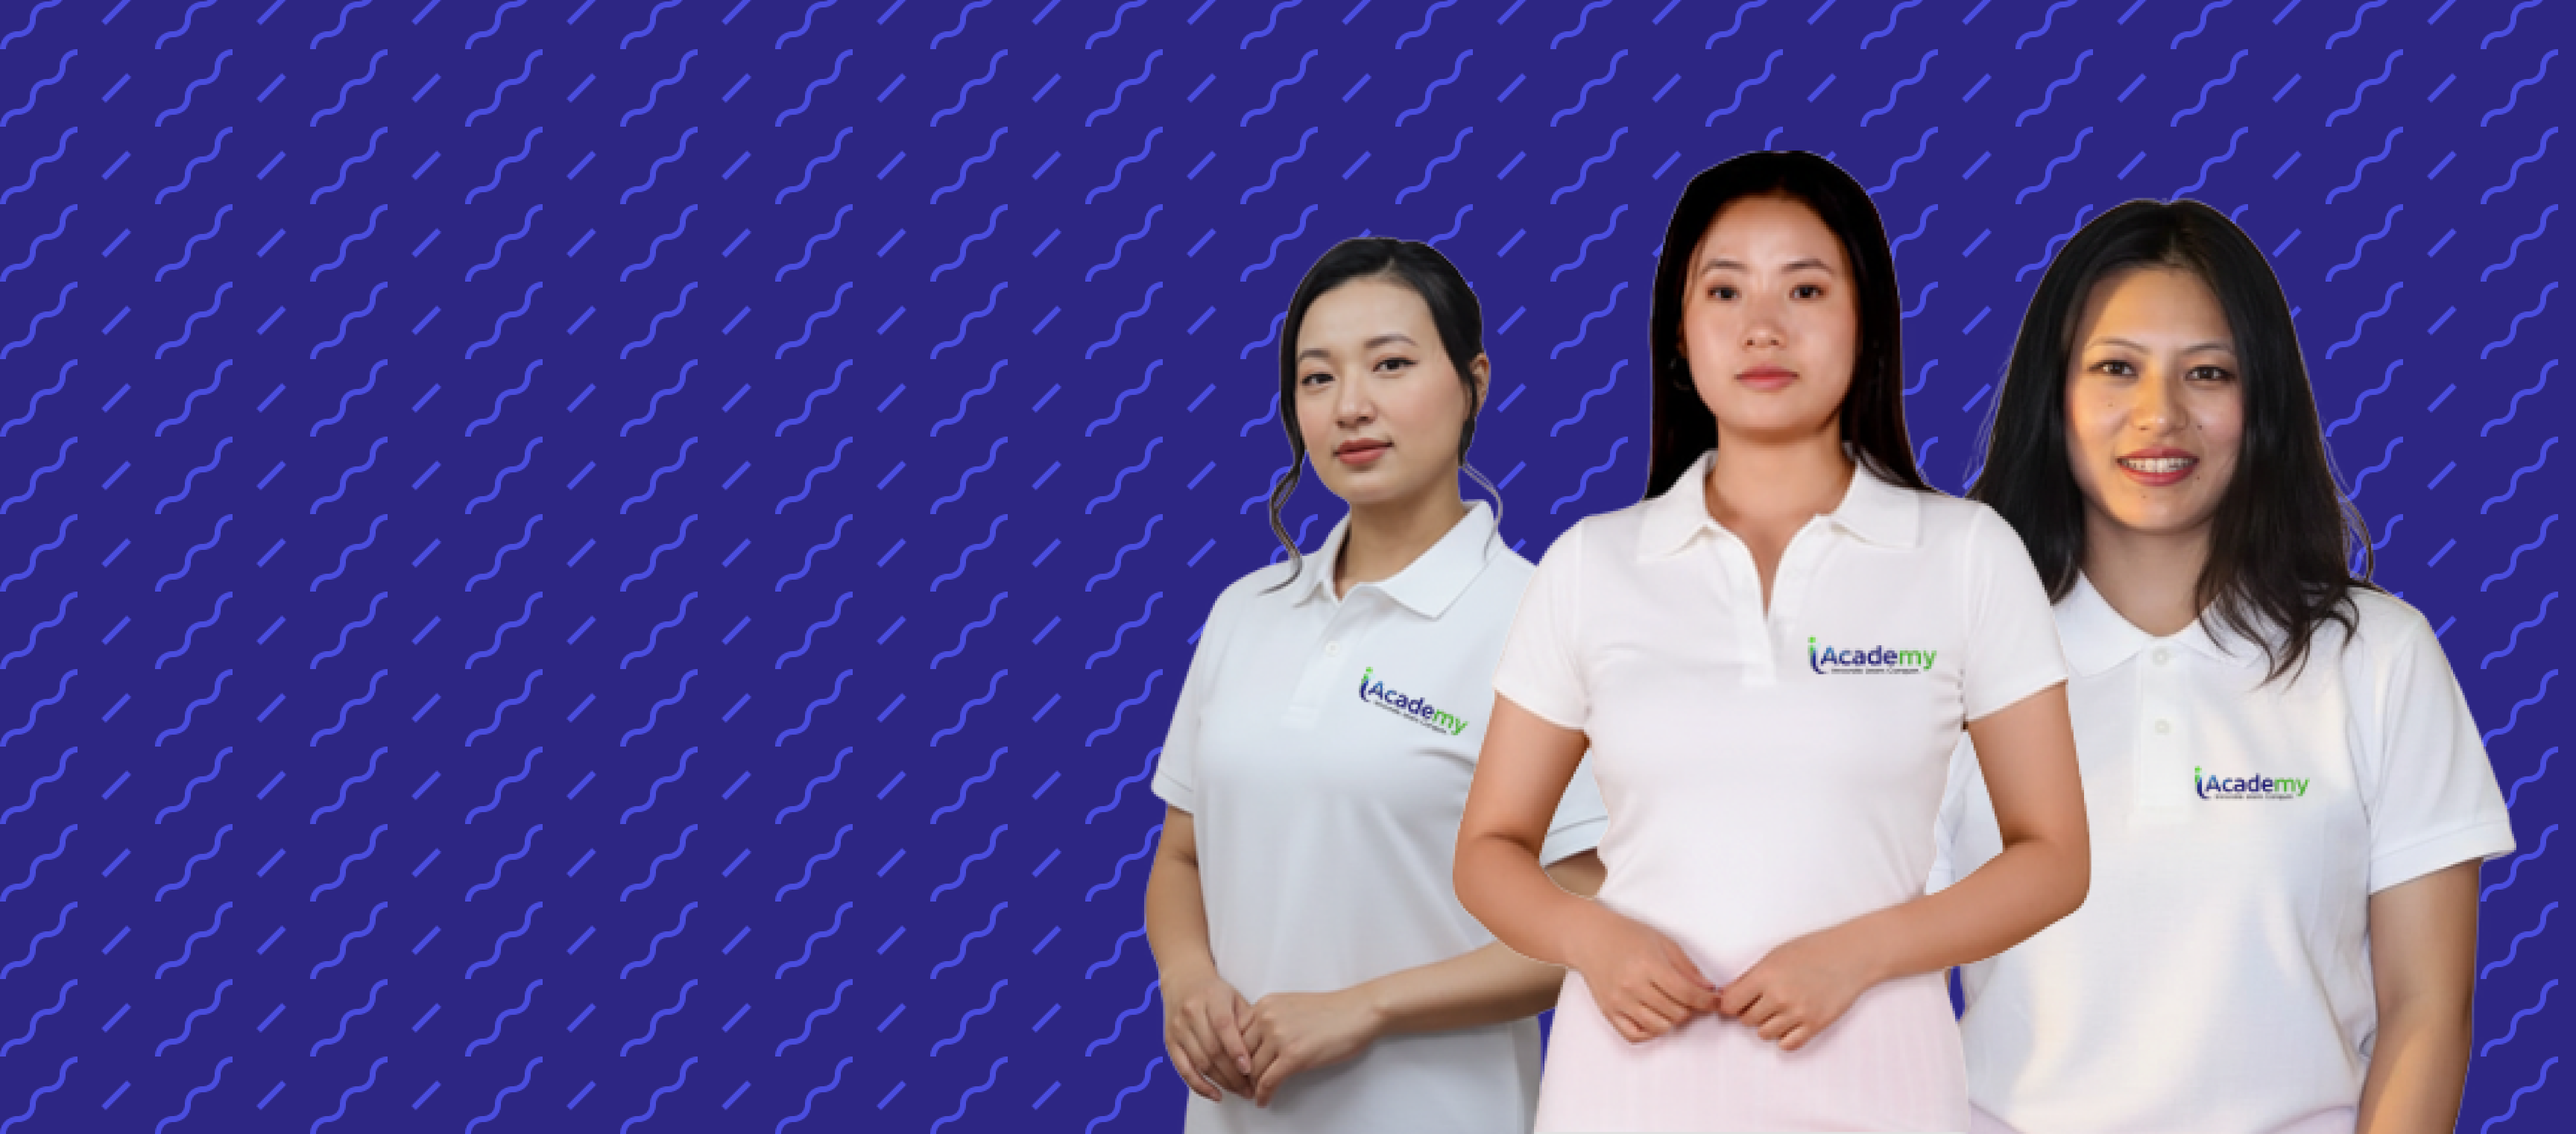
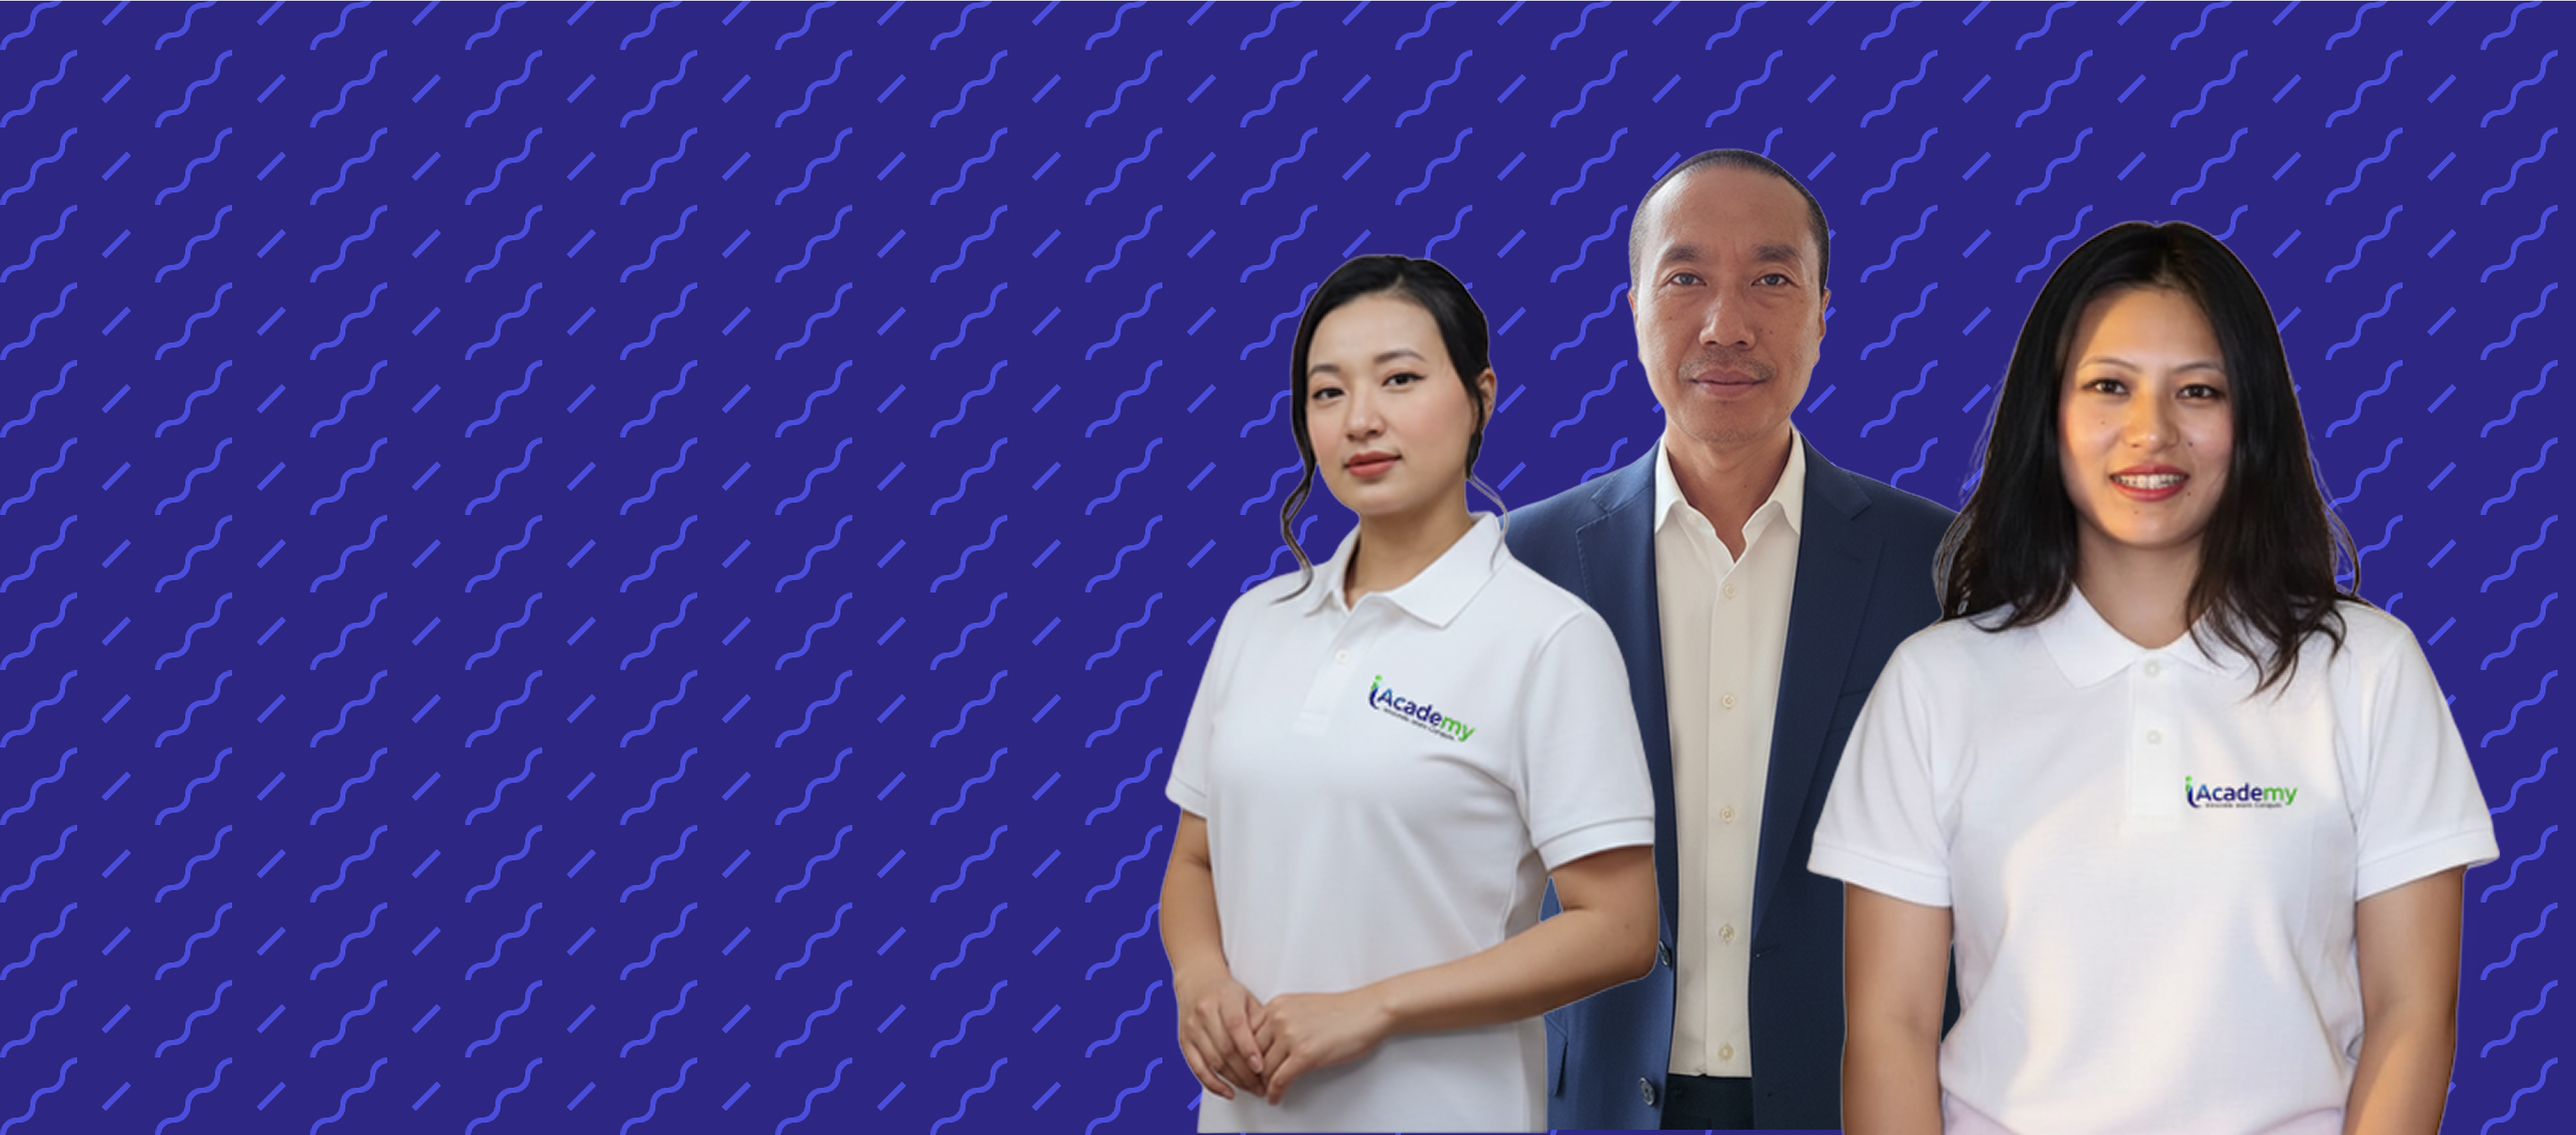
updates

Changed region(s): [[0.4375, 0.1235, 0.9688, 1.0], [0.875, 0.7102, 1.0, 1.0], [0.8438, 0.6794, 0.9062, 0.7102]]

diff --git a/src/components/home/CoursesSection.jsx b/src/components/home/CoursesSection.jsx
@@ -10,15 +10,15 @@ import { useRouter } from 'next/navigation';
 
 export default function CoursesSection() {
   const router = useRouter();
-   useEffect(() => {
-      AOS.init({
-        duration: 800,
-        once: true,
-        offset: 100,
-      })
-    }, [])
+  useEffect(() => {
+    AOS.init({
+      duration: 800,
+      once: true,
+      offset: 100,
+    })
+  }, [])
   const courses = [
-   {
+    {
       id: 1,
       title: "Certified Digital Marketing Master",
       description:
@@ -26,7 +26,7 @@ export default function CoursesSection() {
       image: "/course/digital.png",
       icon: <Monitor className="w-6 h-6 text-indigo-600" />,
       status: "Offline",
-      link: "/digital-marketing", 
+      link: "/digital-marketing",
     },
     {
       id: 2,
@@ -84,65 +84,64 @@ export default function CoursesSection() {
 
         {/* Courses Grid */}
         <div className="grid md:grid-cols-2 gap-6 mb-12">
-                  {courses.map((course, index) => (
-                    <div
-                      key={course.id}
-                      className="group bg-white rounded-xl shadow-md hover:shadow-lg transition-all duration-300 overflow-hidden border border-black flex flex-col"
-                      data-aos="fade-up"
-                      data-aos-delay={index * 100} // staggered animation
-                    >
-                      {/* Course Image/Header */}
-                      <div className="relative h-44 sm:h-52 overflow-hidden">
-                        <Image
-                          src={course.image}
-                          alt={course.title}
-                          fill
-                          className="object-cover"
-                        />
-        
-                        {/* Top-right Icon */}
-                        <div className="absolute top-3 right-3 bg-white rounded-full p-2 shadow-md">
-                          {course.icon}
-                        </div>
-                      </div>
-        
-                      {/* Course Details */}
-                      <div className="p-5 flex flex-col flex-1">
-                        <div className="flex items-center justify-between mb-2">
-                          <h3 className="text-lg font-bold text-gray-900">
-                            {course.title}
-                          </h3>
-                          <span
-                            className={`text-sm font-medium ${
-                              course.status === "Online"
-                                ? "text-green-600"
-                                : "text-gray-500"
-                            }`}
-                          >
-                            ● {course.status}
-                          </span>
-                        </div>
-                        <p className="text-gray-600 mb-4 flex-1 text-sm">
-                          {course.description}
-                        </p>
-        
-                        <div className="flex items-center justify-end mt-auto cursor-pointer">
-                          {/* Learn More with Link */}
-                          <Link href={course.link} passHref>
-                            <button className="flex items-center space-x-1 text-indigo-600 hover:text-indigo-800 font-semibold text-sm transition-colors duration-200 group">
-                              <span>Learn more</span>
-                              <ArrowRight className="w-4 h-4 transform group-hover:translate-x-1 transition-transform duration-200" />
-                            </button>
-                          </Link>
-                        </div>
-                      </div>
-                    </div>
-                  ))}
+          {courses.map((course, index) => (
+            <div
+              key={course.id}
+              className="group bg-white rounded-xl shadow-md hover:shadow-lg transition-all duration-300 overflow-hidden border border-black flex flex-col"
+              data-aos="fade-up"
+              data-aos-delay={index * 100} // staggered animation
+            >
+              {/* Course Image/Header */}
+              <div className="relative h-54 sm:h-62 overflow-hidden">
+                <Image
+                  src={course.image}
+                  alt={course.title}
+                  fill
+                  className="object-cover"
+                />
+
+                {/* Top-right Icon */}
+                <div className="absolute top-3 right-3 bg-white rounded-full p-2 shadow-md">
+                  {course.icon}
                 </div>
+              </div>
+
+              {/* Course Details */}
+              <div className="p-5 flex flex-col flex-1">
+                <div className="flex items-center justify-between mb-2">
+                  <h3 className="text-lg font-bold text-gray-900">
+                    {course.title}
+                  </h3>
+                  <span
+                    className={`text-sm font-medium ${course.status === "Online"
+                        ? "text-green-600"
+                        : "text-gray-500"
+                      }`}
+                  >
+                    ● {course.status}
+                  </span>
+                </div>
+                <p className="text-gray-600 mb-4 flex-1 text-sm">
+                  {course.description}
+                </p>
+
+                <div className="flex items-center justify-end mt-auto cursor-pointer">
+                  {/* Learn More with Link */}
+                  <Link href={course.link} passHref>
+                    <button className="flex items-center space-x-1 text-indigo-600 hover:text-indigo-800 font-semibold text-sm transition-colors duration-200 group">
+                      <span>Learn more</span>
+                      <ArrowRight className="w-4 h-4 transform group-hover:translate-x-1 transition-transform duration-200" />
+                    </button>
+                  </Link>
+                </div>
+              </div>
+            </div>
+          ))}
+        </div>
 
         {/* View All Button */}
         <div className="text-center" data-aos="zoom-in">
-          <button onClick={() => router.push('/courses')}  className="bg-indigo-600 hover:bg-indigo-700 text-white px-8 py-3 rounded-xl font-semibold transition-colors duration-200 shadow-md hover:shadow-lg">
+          <button onClick={() => router.push('/courses')} className="bg-indigo-600 hover:bg-indigo-700 text-white px-8 py-3 rounded-xl font-semibold transition-colors duration-200 shadow-md hover:shadow-lg">
             View All
           </button>
         </div>

diff --git a/src/components/home/AcademicHeadSection.jsx b/src/components/home/AcademicHeadSection.jsx
@@ -35,12 +35,12 @@ export default function AcademicHeadSection() {
               <div className="space-y-6" data-aos="fade-right">
                 <div data-aos="fade-up">
                   <h2 className="text-2xl sm:text-3xl lg:text-4xl font-bold mb-4">
-                    Our Academic Head
+                    Meet Our Academic Head
                   </h2>
                   
                   {/* Name Badge with Qualification */}
                   <div className="inline-block bg-white backdrop-blur-sm px-4 py-2 rounded-full text-black text-sm font-semibold mb-4 border border-white/30">
-                    SEARCHJOY KHAMRANG, PhD
+                    Phashokmi Vashi
                   </div>
 
                   {/* New heading before description */}
@@ -52,7 +52,8 @@ export default function AcademicHeadSection() {
                 {/* Description */}
                 <div className="space-y-4 text-gray-100 leading-relaxed text-sm sm:text-base" data-aos="fade-up" data-aos-delay="150">
                   <p>
-                    At iAcademy Manipur, we believe education is more than knowledge—it’s about critical thinking, creativity, tech literacy, and resilience. Our vision is to equip the next generation with skills, character, and confidence to become leaders, innovators, and responsible global citizens.
+                   Phashokmi Vashi holds a Master's and an M.Phil. degree in Education, specializing in Teachers Autonomy and the Re-Imagination of Inclusive Consciousness, respectively.
+Currently, at the University of Delhi, he is working on his doctoral thesis on Culture, Education, and their interfaces, with a special focus on the Manipur context. His other interests include Philosophy, Psychoanalysis, Translation Studies, Philology, and ICT. He has authored two books: "A Draft to Final Hinge" and "Nasha Iniwui Khararchan" (A Dove and Our Story). His current projects center on Translation.
                   </p>
                 </div>
               </div>
@@ -61,7 +62,7 @@ export default function AcademicHeadSection() {
               <div className="flex justify-center lg:justify-end" data-aos="fade-left">
                 <div className="relative w-full max-w-xs sm:max-w-sm md:max-w-md lg:w-96 lg:h-96">
                   <Image 
-                    src="/home/head.png" 
+                    src="/home/head1.png" 
                     alt="Joy Kharmawad - Academic Head"
                     width={384}
                     height={384}

diff --git a/src/app/(routes)/about/components/LeadershipProfiles.jsx b/src/app/(routes)/about/components/LeadershipProfiles.jsx
@@ -23,15 +23,16 @@ const TeamSection = () => {
       reverse: false,
       topShape: true, 
     },
-    {
-      name: "Joy Khamrang",
-      title: "Academic head",
-      image: "/home/head.png", 
-      bgColor: "bg-red-700",
-      text: `At iAcademy Manipur, we believe education is more than knowledge—it’s about critical thinking, creativity, tech literacy, and resilience. Our vision is to equip the next generation with skills, character, and confidence to become leaders, innovators, and responsible global citizens.`,
-      reverse: true,
-      topShape: true, 
-    },
+   {
+  name: "Phashokmi Vashi",
+  title: "Academic Head",
+  image: "/home/head1.png", 
+  bgColor: "bg-red-700",
+  text: `“Our approach at iAcademy is to nurture curiosity and encourage students to explore beyond textbooks. We focus on personalized learning, practical exposure, and a supportive environment that empowers every learner to grow academically and personally.”`,
+  reverse: true,
+  topShape: true, 
+}
+
   ];
 
   return (

diff --git a/src/app/(routes)/courses/components/CourseSection.jsx b/src/app/(routes)/courses/components/CourseSection.jsx
@@ -92,7 +92,7 @@ export default function PopularCoursesSection() {
       title: "Smart Robotics and AI for Kids",
       description:
         "Prepare Early for IAS Success | Interactive Learning for Class 5 to 10 Students",
-      image: "/course/robotics.png",
+      image: "/course/rootics.png",
       icon: <GraduationCap className="w-6 h-6 text-yellow-600" />,
       status: "Online",
       link: "/smart-robotics",
@@ -119,7 +119,7 @@ export default function PopularCoursesSection() {
               data-aos-delay={index * 100} // staggered animation
             >
               {/* Course Image/Header */}
-              <div className="relative h-44 sm:h-52 overflow-hidden">
+              <div className="relative h-54 sm:h-62 overflow-hidden">
                 <Image
                   src={course.image}
                   alt={course.title}

diff --git a/src/app/(routes)/about/components/AboutUsFooter.jsx b/src/app/(routes)/about/components/AboutUsFooter.jsx
@@ -50,7 +50,7 @@ export default function AboutUsFooter() {
             <p>
               At iAcademy Manipur, we believe education should do more than prepare students for 
               exams—it should empower them to innovate, explore, and achieve. Founded by{' '}
-              <span className="font-semibold text-white">M.K. Preshow Shimmu</span> (Former Deputy Speaker) and{' '}
+              {/* <span className="font-semibold text-white">M.K. Preshow Shimmu</span> (Former Deputy Speaker) and{' '} */}
               <span className="font-semibold text-white">Mr. Ngammi Valui</span> (Director), iAcademy 
               Manipur was established with a mission to nurture talent, unlock potential, and build 
               leaders of tomorrow.

diff --git a/src/components/home/HeroSection.jsx b/src/components/home/HeroSection.jsx
@@ -65,12 +65,12 @@ export default function HeroSection() {
                 At iAcademy Manipur, we empower learners through cutting-edge
                 courses designed to bridge the gap between knowledge and
                 practical skills. Led by the visionary Director, and our esteemed
-                Director{" "}
+                Director{" "} <br></br>
                 <span className="text-orange-300 font-semibold">
                   Mr. Ngammi Valui
                 </span>
                 , we are dedicated to nurturing talent and promoting excellence
-                in education.
+                in education to impart quality education.
               </p>
             </div>
 
